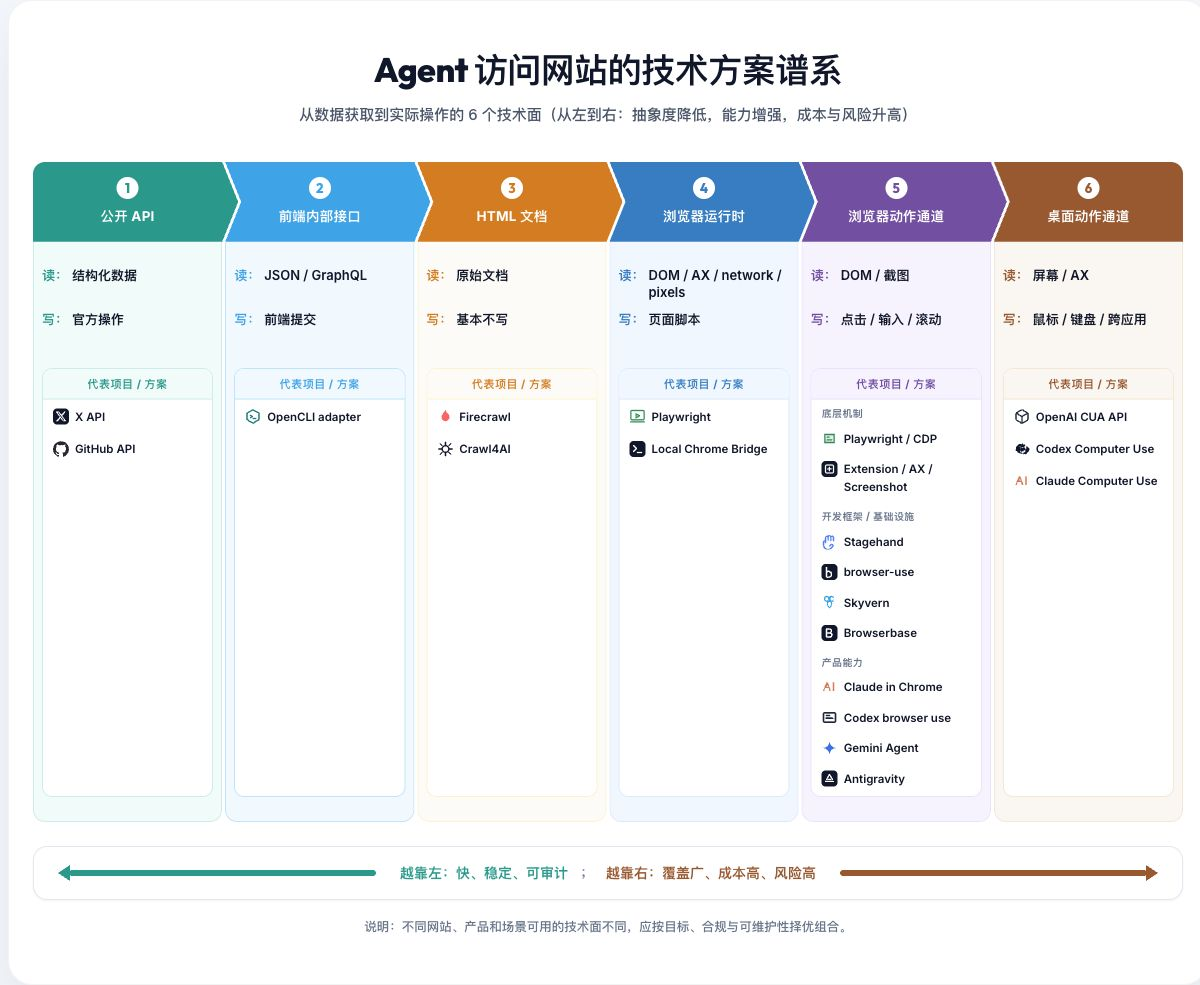
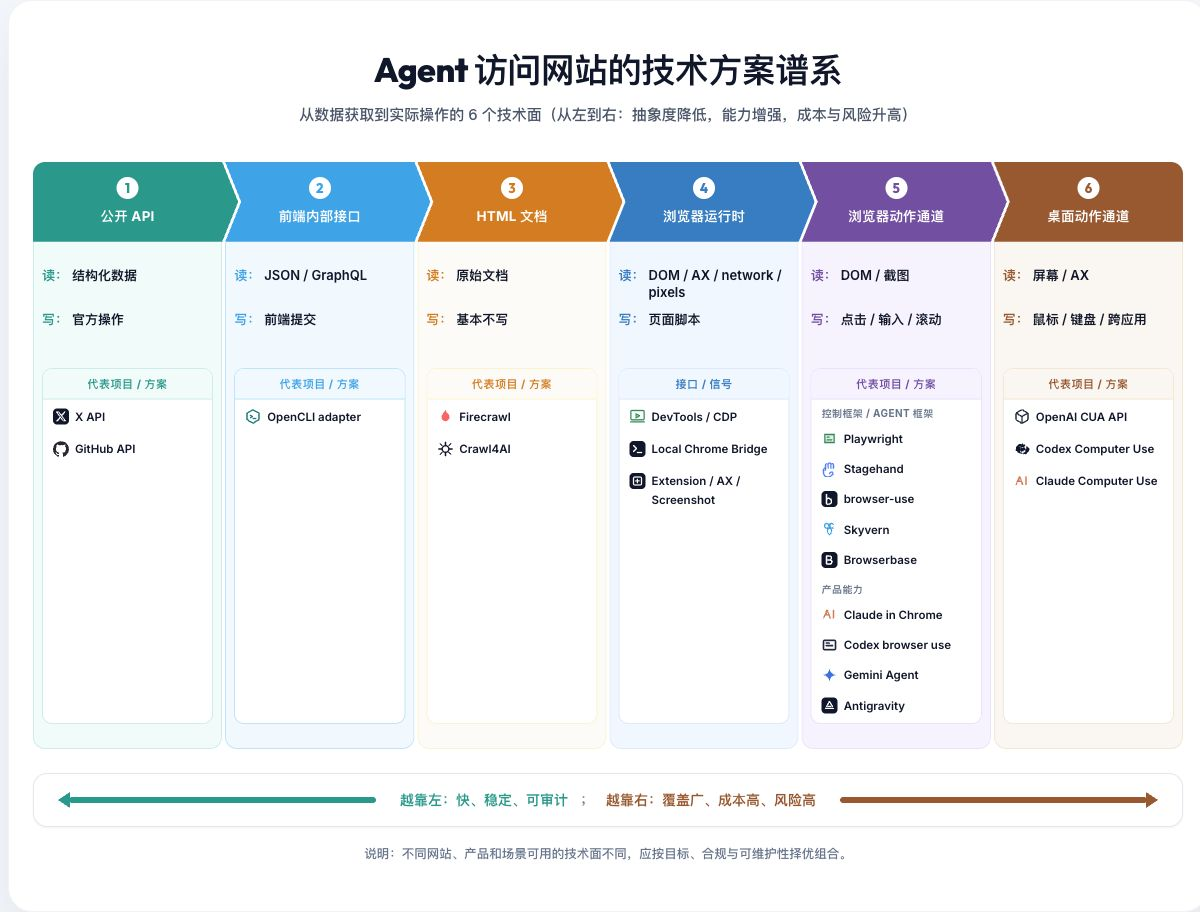
Fix browser runtime and action layer model

diff --git a/index.html b/index.html
@@ -882,13 +882,13 @@
             </div>
             
             <div class="projects-box">
-              <div class="projects-label">代表项目 / 方案</div>
+              <div class="projects-label">接口 / 信号</div>
               <div class="projects-list">
-                <a href="https://github.com/microsoft/playwright" target="_blank" rel="noopener" class="project-item">
+                <a href="https://chromedevtools.github.io/devtools-protocol/" target="_blank" rel="noopener" class="project-item">
                   <span class="project-icon brand-playwright">
                     <svg viewBox="0 0 24 24" fill="none" stroke="currentColor" stroke-width="2" stroke-linecap="round" stroke-linejoin="round"><rect x="2" y="3" width="20" height="14" rx="2" ry="2"></rect><line x1="2" y1="20" x2="22" y2="20"></line><polygon points="10 8 15 11 10 14 10 8"></polygon></svg>
                   </span>
-                  <span>Playwright</span>
+                  <span>DevTools / CDP</span>
                 </a>
                 <a href="https://github.com/jackwener/opencli" target="_blank" rel="noopener" class="project-item">
                   <span class="project-icon bg-dark-logo">
@@ -896,6 +896,12 @@
                   </span>
                   <span>Local Chrome Bridge</span>
                 </a>
+                <div class="project-item">
+                  <span class="project-icon bg-dark-logo">
+                    <svg viewBox="0 0 24 24" fill="none" stroke="currentColor" stroke-width="2.5" stroke-linecap="round" stroke-linejoin="round"><rect x="4" y="4" width="16" height="16" rx="3"></rect><path d="M8 12h8M12 8v8"></path></svg>
+                  </span>
+                  <span>Extension / AX / Screenshot</span>
+                </div>
               </div>
             </div>
           </div>
@@ -923,22 +929,13 @@
               <div class="projects-label">代表项目 / 方案</div>
               <div class="projects-list">
                 <div class="project-group">
-                  <div class="group-label">底层机制</div>
-                  <a href="https://github.com/microsoft/playwright" target="_blank" rel="noopener" class="project-item">
-                    <span class="project-icon brand-playwright">
-                      <svg viewBox="0 0 24 24" fill="currentColor"><path d="M4 5h16v14H4z" opacity=".15"/><path d="M4 5h16v14H4V5zm2 2v10h12V7H6zm2 2h4v2H8V9zm0 4h8v2H8v-2z"/></svg>
-                    </span>
-                    <span>Playwright / CDP</span>
-                  </a>
-                  <div class="project-item">
-                    <span class="project-icon bg-dark-logo">
-                      <svg viewBox="0 0 24 24" fill="none" stroke="currentColor" stroke-width="2.5" stroke-linecap="round" stroke-linejoin="round"><rect x="4" y="4" width="16" height="16" rx="3"></rect><path d="M8 12h8M12 8v8"></path></svg>
-                    </span>
-                    <span>Extension / AX / Screenshot</span>
-                  </div>
-                </div>
-                <div class="project-group">
-                  <div class="group-label">开发框架 / 基础设施</div>
+                  <div class="group-label">控制框架 / Agent 框架</div>
+                <a href="https://github.com/microsoft/playwright" target="_blank" rel="noopener" class="project-item">
+                  <span class="project-icon brand-playwright">
+                    <svg viewBox="0 0 24 24" fill="currentColor"><path d="M4 5h16v14H4z" opacity=".15"/><path d="M4 5h16v14H4V5zm2 2v10h12V7H6zm2 2h4v2H8V9zm0 4h8v2H8v-2z"/></svg>
+                  </span>
+                  <span>Playwright</span>
+                </a>
                 <a href="https://www.browserbase.com/stagehand/" target="_blank" rel="noopener" class="project-item">
                   <span class="project-icon brand-stagehand">
                     <svg viewBox="0 0 24 24" fill="none" stroke="currentColor" stroke-width="2" stroke-linecap="round" stroke-linejoin="round"><path d="M18 11V6a2 2 0 0 0-2-2v0a2 2 0 0 0-2 2v5M14 10V5a2 2 0 0 0-2-2v0a2 2 0 0 0-2 2v5M10 10.5V6a2 2 0 0 0-2-2v0a2 2 0 0 0-2 2v7.5M6 14v-1.5a1.5 1.5 0 0 0-3 0v4.75a6.75 6.75 0 0 0 11.83 4.54l1.9-1.9a2 2 0 0 0 0-2.83v0a2 2 0 0 0-2.83 0l-1.9 1.9"></path></svg>
@@ -1115,10 +1112,11 @@
           <ul>
             <li><strong>Local Chrome Bridge：</strong>不是数据源，而是复用本机 Chrome、登录态、cookies、DevTools/extension 通道的一类连接方式。OpenCLI 可以利用这类桥接，把临时浏览器探索沉淀为可复用 CLI 命令。</li>
             <li><strong>Browserbase / Steel / Hyperbrowser / Browserless：</strong>属于“浏览器运行基础设施”，不是数据源本身。它们负责托管云端浏览器 session、并发控制、Captcha 绕过、代理以及操作录制调试。</li>
+            <li><strong>Playwright 的位置：</strong>它不是浏览器运行时本身，而是用 CDP / browser protocol 操作浏览器的控制框架，所以属于“浏览器动作通道”。CDP、extension、AX、screenshot 更接近“浏览器运行时暴露出的接口 / 信号”。</li>
             <li><strong>Stagehand / browser-use / Skyvern：</strong>是“浏览器动作通道”上的 AI 控制器。它们通过大模型多轮 loop 或自然语言提高操作的动态适应性，适合探索流程，不适合海量数据的低成本采集。</li>
-            <li><strong>Codex browser use / Claude in Chrome / Gemini Agent：</strong>是产品能力，不是 Playwright 的平级替代品。它们落在浏览器动作通道，底层会组合 Playwright/CDP、extension、AX、screenshot 等机制。</li>
+            <li><strong>Codex browser use / Claude in Chrome / Gemini Agent：</strong>是产品能力，不是 Playwright 的平级替代品。它们落在浏览器动作通道，通常建立在浏览器控制接口、extension、AX、screenshot 等能力之上。</li>
             <li><strong>Claude / Codex app：</strong>Claude Desktop/Cowork 的浏览器任务优先走 Claude in Chrome，跨桌面 app 才走 Computer Use；Codex app 是 coding command center，浏览器验证走 in-app browser / Chrome extension，跨桌面 app 才走 Codex Computer Use。</li>
-            <li><strong>Gemini app / Antigravity：</strong>Google 主流 agent 产品不是 Project Mariner。Gemini Agent 是 Gemini app 里的多步任务入口，依赖 live web browser 和 Google apps；Antigravity 是开发者 agent 平台，横跨 editor / terminal / browser，其中 browser-use 部分才落在这张谱系的浏览器动作通道。</li>
+            <li><strong>Gemini app / Antigravity：</strong>Gemini Agent 是 Gemini app 里的多步任务入口，依赖 live web browser 和 Google apps；Antigravity 是开发者 agent 平台，横跨 editor / terminal / browser，其中 browser-use 部分才落在这张谱系的浏览器动作通道。</li>
           </ul>
         </div>
         <div class="decision-card">
@@ -1187,8 +1185,10 @@
               <td>
                 <div class="detailed-chips">
                   <span class="detailed-chip">DevTools</span>
+                  <span class="detailed-chip">CDP</span>
+                  <span class="detailed-chip">Extension</span>
+                  <span class="detailed-chip">AX / Screenshot</span>
                   <span class="detailed-chip">Local Chrome Bridge</span>
-                  <span class="detailed-chip">Playwright inspect</span>
                 </div>
               </td>
             </tr>
@@ -1198,9 +1198,7 @@
               <td>在浏览器层模拟真实动作：点击、输入、滚动、导航、上传文件等。</td>
               <td>
                 <div class="detailed-chips">
-                  <span class="detailed-chip">Playwright / CDP</span>
-                  <span class="detailed-chip">Extension</span>
-                  <span class="detailed-chip">AX / Screenshot</span>
+                  <span class="detailed-chip">Playwright</span>
                   <span class="detailed-chip">Stagehand</span>
                   <span class="detailed-chip">browser-use</span>
                   <span class="detailed-chip">Skyvern</span>

diff --git a/README.md b/README.md
@@ -35,7 +35,7 @@
 - 登录态强、交互复杂的网站：先用浏览器运行时和 Local Chrome Bridge 侦察，再用 Playwright/OpenCLI/adapter 固化。
 - 高变化、低频、跨应用、无 DOM 的任务：才上 Computer Use / RPA。
 - 不要把多轮 LLM 点击当成长期生产数据管道。它适合探索和兜底，不适合高吞吐采集。
-- App 不是技术层。浏览器动作通道要分清两层：底层机制是 Playwright / CDP / extension / AX / screenshot；Codex browser use、Claude in Chrome、Gemini Agent、Antigravity 是产品能力。Gemini 这里讨论主流产品，不再把 Project Mariner 放主图。
+- App 不是技术层。第 4 层是浏览器运行时暴露的接口和信号，如 CDP / extension / AX / screenshot；第 5 层是使用这些接口执行点击、输入、滚动的控制框架和产品能力，如 Playwright、Codex browser use、Claude in Chrome、Gemini Agent、Antigravity。
 
 ## Files
 
